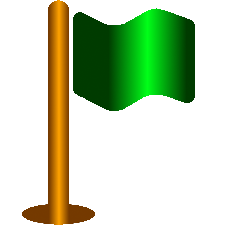
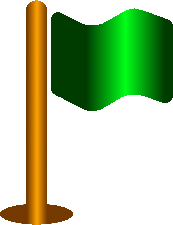
add images p4

diff --git a/gpsFiction/src/main/java/com/sdesimeur/android/gpsfiction/fragments/MapFragment.java b/gpsFiction/src/main/java/com/sdesimeur/android/gpsfiction/fragments/MapFragment.java
@@ -67,7 +67,6 @@ public class MapFragment
         extends MyTabFragment
         implements PlayerBearingListener, ZoneChangeListener, PlayerLocationListener, ZoneSelectListener, ItemizedLayer.OnItemGestureListener<MarkerItem> {
     private static final float MINMOVE = 20;
-    private static final int CENTERZONEICON = R.mipmap.flag;
     MapView mapView;
     Map mMap;
     //MapPreferences mPrefs;
@@ -495,7 +494,7 @@ public class MapFragment
     @Override
     public void onZoneChanged(Zone zone) {
         //MarkerSymbol zoneMarkerSymbol = new MarkerSymbol(drawableToBitmap(getResources(),zone.getIconId()), HotspotPlace.BOTTOM_CENTER);
-        MarkerSymbol zoneMarkerSymbol = new MarkerSymbol(drawableToBitmap(getResources(),CENTERZONEICON), 58.0f/225.0f, 214.0f/225.0f);
+        MarkerSymbol zoneMarkerSymbol = new MarkerSymbol(drawableToBitmap(getResources(),R.mipmap.flag), 58.0f/192.0f, 171.0f/192.0f);
         ZoneViewHelper zvh = zoneViewHelperHashMap.get(zone);
         if (zvh == null) {
             zvh = new ZoneViewHelper(zone);
